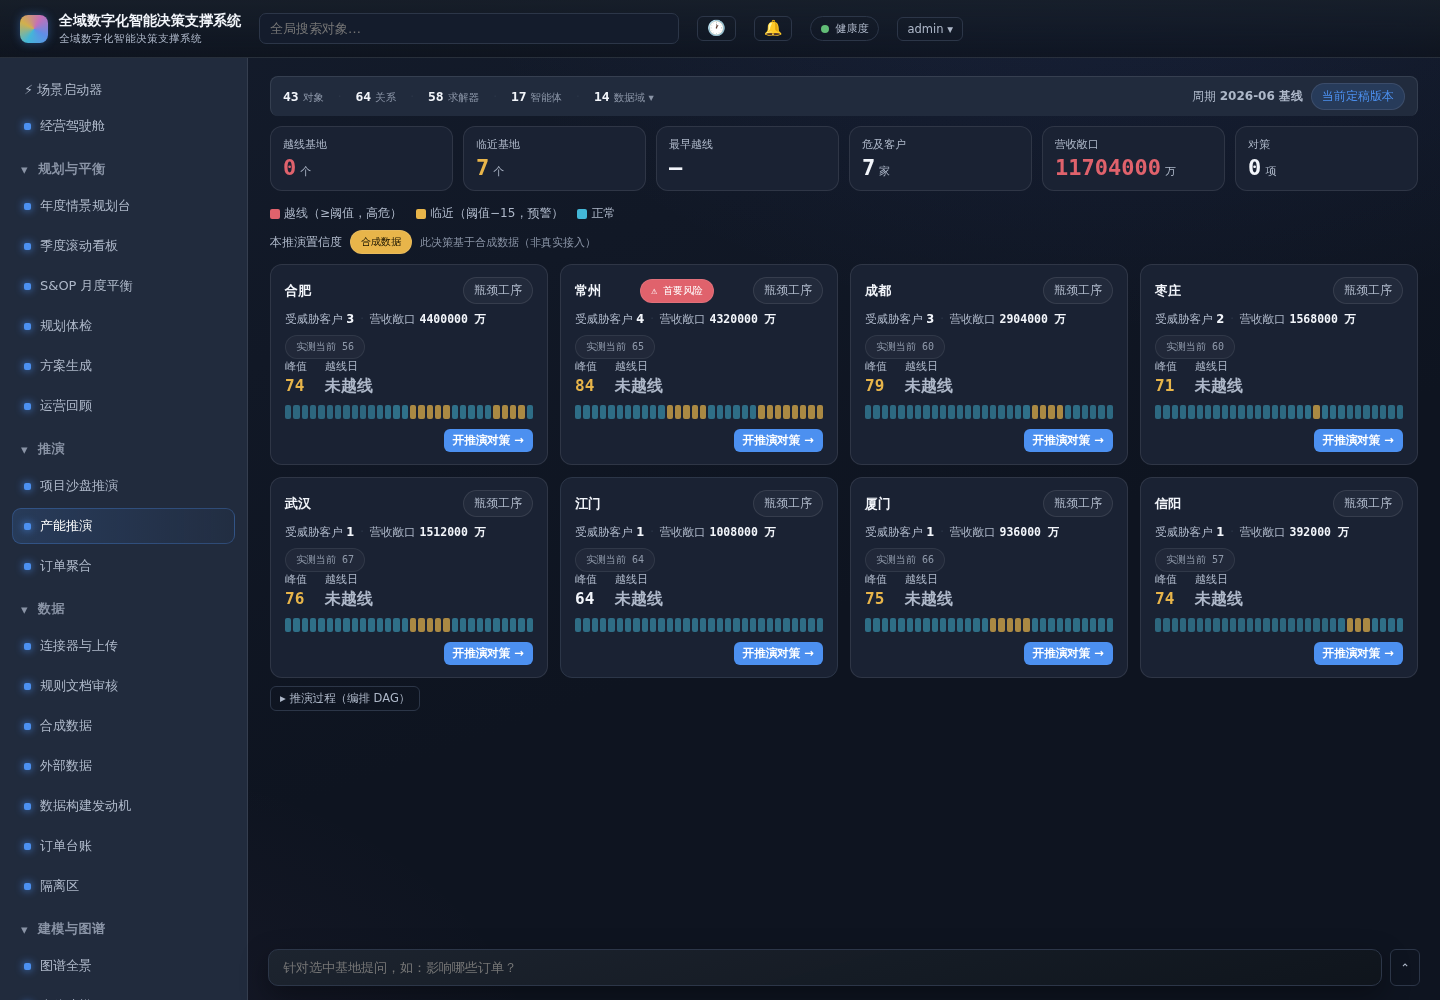
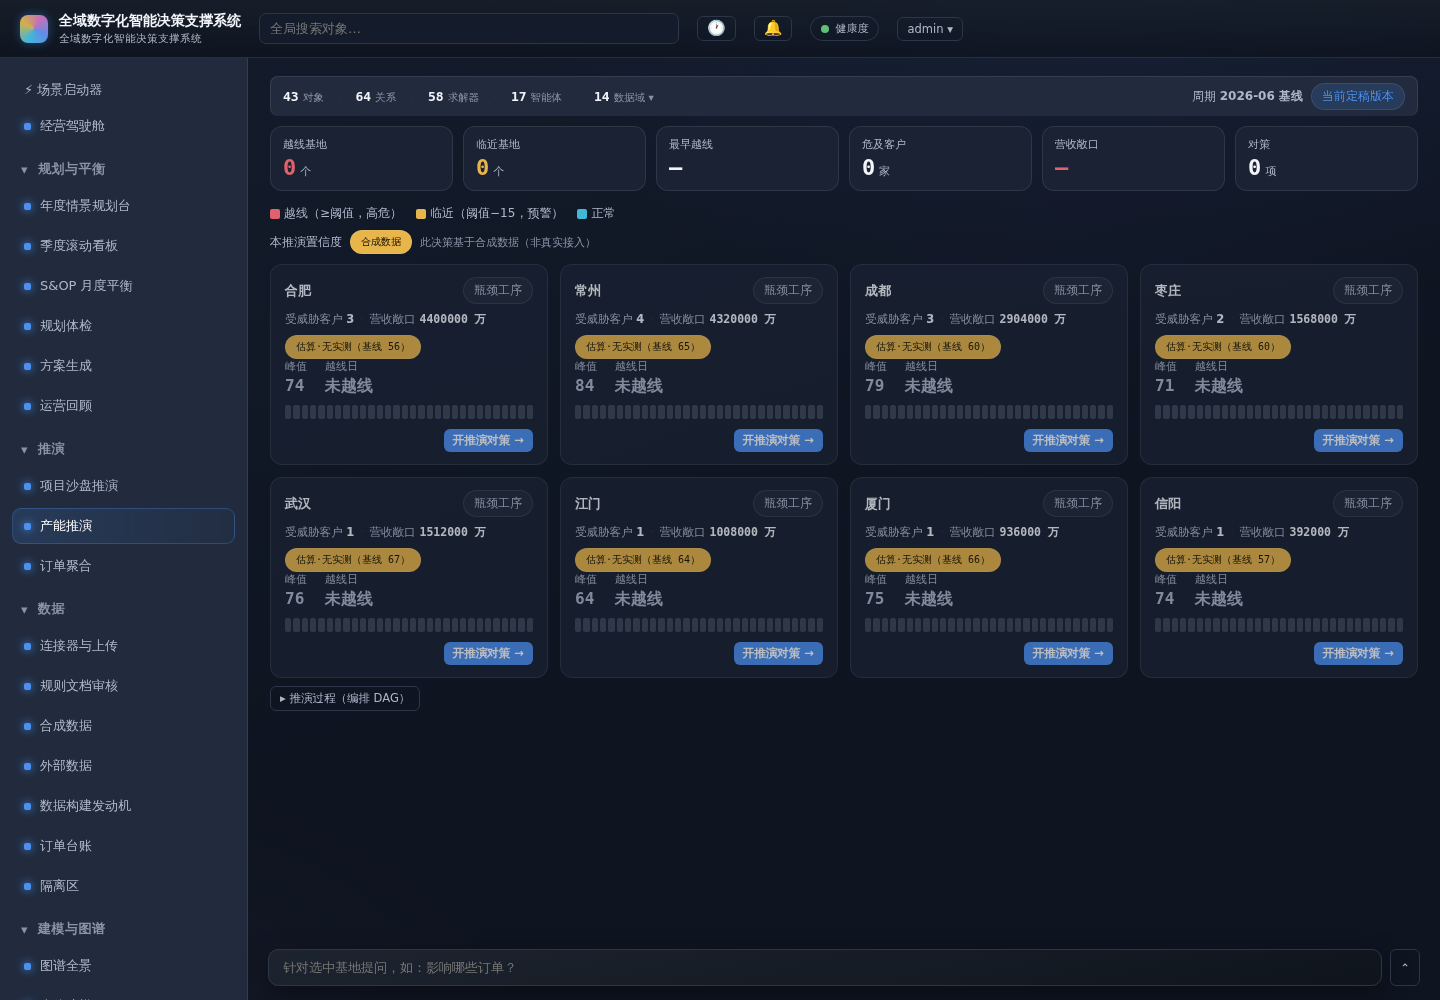
WO-CAPSIM-IA-UNIFY M2③: 产能推演看板消费 ?focus 真裁剪到该基地(scope=该基地)
RiskBoardView(产能推演·/v/risk) 原 ?focus 仅驱动 DrillBack 面包屑·不裁剪卡。
本改：?focus=<baseId|名> → resolveBaseId 归一(BASE_REGISTRY 单一来源·R6)→ 看板卡/
红黄摘要/敞口/排序全真裁剪到该基地(同一真 risk_timeline·非造)；无匹配退全量(graceful
不空板)；加聚焦提示条 risk-scope-focus。完成验收③「基地卡下钻→进看板 scope=该基地」。

验证: 前端 risk-decision-funnel 9 测(新增 focus=changzhou 只出常州卡+摘要聚焦逐值);
真浏览器 8/8(左导航无沙盘·裸访问302·focus 真裁剪常州·截图 M2-focus-scope.png)。

Claude-Session: https://claude.ai/code/session_017ZQ4bvQ4uGEXrjiPuq8D9K

diff --git a/apps/frontend-shell/src/views/RiskBoardView.tsx b/apps/frontend-shell/src/views/RiskBoardView.tsx
@@ -11,7 +11,7 @@ import { EChart } from "@/components/ui/EChart";
 import { RiskHoverTrigger } from "@/components/Risk/RiskPopover";
 import { decisionColor, decisionHeat, NO_DATA_HINT } from "@/components/DecisionValue";
 import { useActionDraft } from "./sim/shared";
-import { useOpenWhatIf } from "./sim/whatif";
+import { useOpenWhatIf, resolveBaseId } from "./sim/whatif";
 import { useFeature } from "@/workspace/featureGate";
 import type { ViewRendererProps } from "./registry";
 import { InferenceProcessPanel } from "@/components/InferenceProcessPanel";
@@ -146,12 +146,19 @@ export default function RiskBoardView({ view }: ViewRendererProps) {
     if (c.dataMode == null) return topLive ? "LIVE" : "MUTED"; // 未标 → 随顶层（兼容旧 fixture/真 LIVE 顶层）
     return "MUTED"; // 显式 MOCK/SYNTHETIC（含 WO-CAP-01 合成源卡）/其它非 LIVE → 中性
   };
+  // WO-CAPSIM-IA-UNIFY（M2·③看板 scope=该基地）：`?focus=<baseId|名>` 下钻 → **把看板卡真裁剪到该基地**
+  // （原 focus 仅驱动 DrillBack 面包屑·不裁剪）。resolveBaseId 归一名↔id（BASE_REGISTRY 单一来源·R6·无网络）。
+  // 无匹配 → 退全量（graceful·不空板）；裁剪后红/黄/敞口/排序全随之聚焦该基地（同一真 risk_timeline·非造）。
+  const focusId = resolveBaseId(searchParams.get("focus") ?? undefined);
+  const baseScoped = focusId ? data.cards.filter((c) => resolveBaseId(c.base) === focusId) : data.cards;
+  const scopedCards = focusId && baseScoped.length > 0 ? baseScoped : data.cards;
+  const scopedToBase = focusId != null && baseScoped.length > 0;
   // 首要风险仅在真数据卡间取（避免合成/mock 峰值抢「首要」红标）。
-  const liveCards = data.cards.filter((c) => cardDecisionMode(c) === "LIVE");
+  const liveCards = scopedCards.filter((c) => cardDecisionMode(c) === "LIVE");
   const livePeaks = liveCards.map((c) => c.peak ?? 0);
   const maxPeak = livePeaks.length ? Math.max(0, ...livePeaks) : 0;
   // C4：卡按业务影响（营收敞口）排序——真数据驱动·非 peak（改后端 affectedOrders 真源→次序随之变）。
-  const orderedCards = sortCardsByImpact(data.cards);
+  const orderedCards = sortCardsByImpact(scopedCards);
   // C3 决策摘要头（高管决策漏斗）：全部聚合自真 risk_timeline（非硬编）。
   //   红/黄基地数 = LIVE 卡按峰值越阈值/临近分档；最早越线日 = LIVE 卡 crossDay 最小；
   //   危及客户数/总敞口 = Σ 各卡 affectedOrders 去重客户/revenueWan（真值）；对策数 = planRows 行数。
@@ -166,6 +173,14 @@ export default function RiskBoardView({ view }: ViewRendererProps) {
   return (
     <div>
       {drilledIn && <DrillBack testId="risk-back" trail={[{ label: "风险看板" }]} />}
+      {/* WO-CAPSIM-IA-UNIFY（M2·③）：聚焦某基地下钻态提示——看板已裁剪到该基地（scope=该基地·唯一 surface 下钻）。 */}
+      {scopedToBase && (
+        <div data-testid="risk-scope-focus" data-focus-base={focusId} style={{ display: "flex", alignItems: "center", gap: 8, marginBottom: 8, fontSize: 12.5 }}>
+          <span className="badge" style={{ background: "var(--accent, #5B7CFA)", color: "#fff" }}>聚焦基地</span>
+          <b className="mono">{focusId}</b>
+          <span style={{ color: "var(--muted2)" }}>· 看板已裁剪到该基地推演（{scopedCards.length} 张卡）</span>
+        </div>
+      )}
       {/* C3 决策摘要头（诊断台→高管决策漏斗）：一屏聚合当前推演的决策级真值——红/黄基地、最早越线、危及客户、总敞口、对策数。
           值源自真 risk_timeline（LIVE 卡 + affectedOrders 真算），非硬编；无真数据自然归零（诚实）。 */}
       <div className={styles.summary} data-testid="risk-decision-summary">
